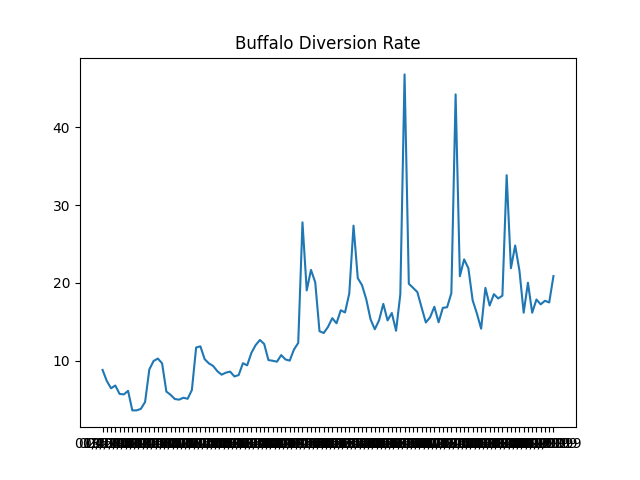
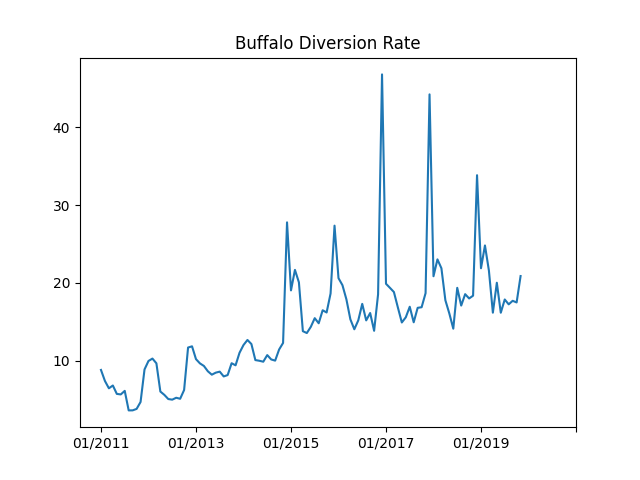
update figures

Changed region(s): [[0.1875, 0.1562, 0.875, 0.875], [0.0938, 0.9062, 0.9062, 0.9375], [0.1562, 0.7812, 0.1875, 0.8125]]

diff --git a/recycling.py b/recycling.py
@@ -1,5 +1,6 @@
 import pandas as pd
 import matplotlib.pyplot as plt
+import numpy as np
 
 with open ("data/PVD_raw_recycling_rates.csv", 'rb') as f:
     pvd_df = pd.read_csv(f)
@@ -24,11 +25,16 @@ pvd_df['diversion_rate'] = pvd_df['diversion_rate'].map(lambda x: x * 100)
 pvd_df['city'] = "Providence"
 pvd_df = pvd_df[['city','year', 'month', 'diversion_rate']]
 
+print('PVD:')
+print(pvd_df['diversion_rate'].min())
+print(pvd_df['diversion_rate'].max())
+
 pvd_df['date'] = pvd_df['month'].map(str) + '/' + pvd_df['year'].map(str)
 pvd_df['date'] = pd.to_datetime(pvd_df['date'], format='%m/%Y').dt.strftime('%m/%Y')
 
 plt.plot(pvd_df['date'], pvd_df['diversion_rate'])
 plt.title('Providence Diversion Rate')
+plt.xticks([0, 24, 48, 72, 96, 120])
 plt.savefig('figs/pvd_graph')
 plt.clf()
 
@@ -45,11 +51,16 @@ nyc_df.reset_index(inplace=True)
 nyc_df['city'] = 'New York City'
 nyc_df = nyc_df[['city','year', 'month', 'diversion_rate']]
 
+print('NYC:')
+print(nyc_df['diversion_rate'].min())
+print(nyc_df['diversion_rate'].max())
+
 nyc_df['date'] = nyc_df['month'].map(str) + '/' + nyc_df['year'].map(str)
 nyc_df['date'] = pd.to_datetime(nyc_df['date'], format='%m/%Y').dt.strftime('%m/%Y')
 
 plt.plot(nyc_df['date'], nyc_df['diversion_rate'])
 plt.title('NYC Diversion Rate')
+plt.xticks([0, 6, 12, 18, 24, 30, 36, 42])
 plt.savefig('figs/nyc_graph')
 plt.clf()
 
@@ -71,11 +82,16 @@ buff_df['diversion_rate'] = buff_df['total_rec']/(buff_df['total_rec'] + buff_df
 buff_df['city'] = 'Buffalo'
 buff_df = buff_df[['city','year', 'month', 'diversion_rate']]
 
+print("Buffalo:")
+print(buff_df['diversion_rate'].min())
+print(buff_df['diversion_rate'].max())
+
 buff_df['date'] = buff_df['month'].map(str) + '/' + buff_df['year'].map(str)
 buff_df['date'] = pd.to_datetime(buff_df['date'], format='%m/%Y').dt.strftime('%m/%Y')
 
 plt.plot(buff_df['date'], buff_df['diversion_rate'])
 plt.title('Buffalo Diversion Rate')
+plt.xticks([0, 24, 48, 72, 96, 120])
 plt.savefig('figs/buff_graph')
 plt.clf()
 
@@ -87,11 +103,16 @@ sea_df['diversion_rate'] = sea_df['total_rec'] /(sea_df['total_rec'] + sea_df['t
 sea_df['city'] = 'Seattle'
 sea_df = sea_df[['city', 'year', 'month', 'diversion_rate']]
 
+print('Seattle:')
+print(sea_df['diversion_rate'].min())
+print(sea_df['diversion_rate'].max())
+
 sea_df['date'] = sea_df['month'].map(str) + '/' + sea_df['year'].map(str)
 sea_df['date'] = pd.to_datetime(sea_df['date'], format='%m/%Y').dt.strftime('%m/%Y')
 
 plt.plot(sea_df['date'], sea_df['diversion_rate'])
 plt.title('Seattle Diversion Rate')
+plt.xticks([0, 24, 48, 72, 96, 120])
 plt.savefig('figs/sea_graph')
 plt.clf()
 
@@ -102,11 +123,12 @@ plot['date'] = plot['month'].map(str) + '/' + plot['year'].map(str)
 plot['date'] = pd.to_datetime(plot['date'], format='%m/%Y').dt.strftime('%m/%Y')
 
 plt.plot(plot['date'], plot['diversion_rate'])
+plt.xticks([0, 24, 48, 72, 96, 120])
 plt.title('Total Diversion Rate')
 plt.savefig('figs/total_graph')
 plt.clf()
 
 print("Finished cleaning data!")
 
-final_df.to_pickle('data/cleaned_final_data')
-final_df.drop(columns=['date']).to_csv('data/cleaned_final_data.csv')
+# final_df.to_pickle('data/cleaned_final_data')
+# final_df.drop(columns=['date']).to_csv('data/cleaned_final_data.csv')
